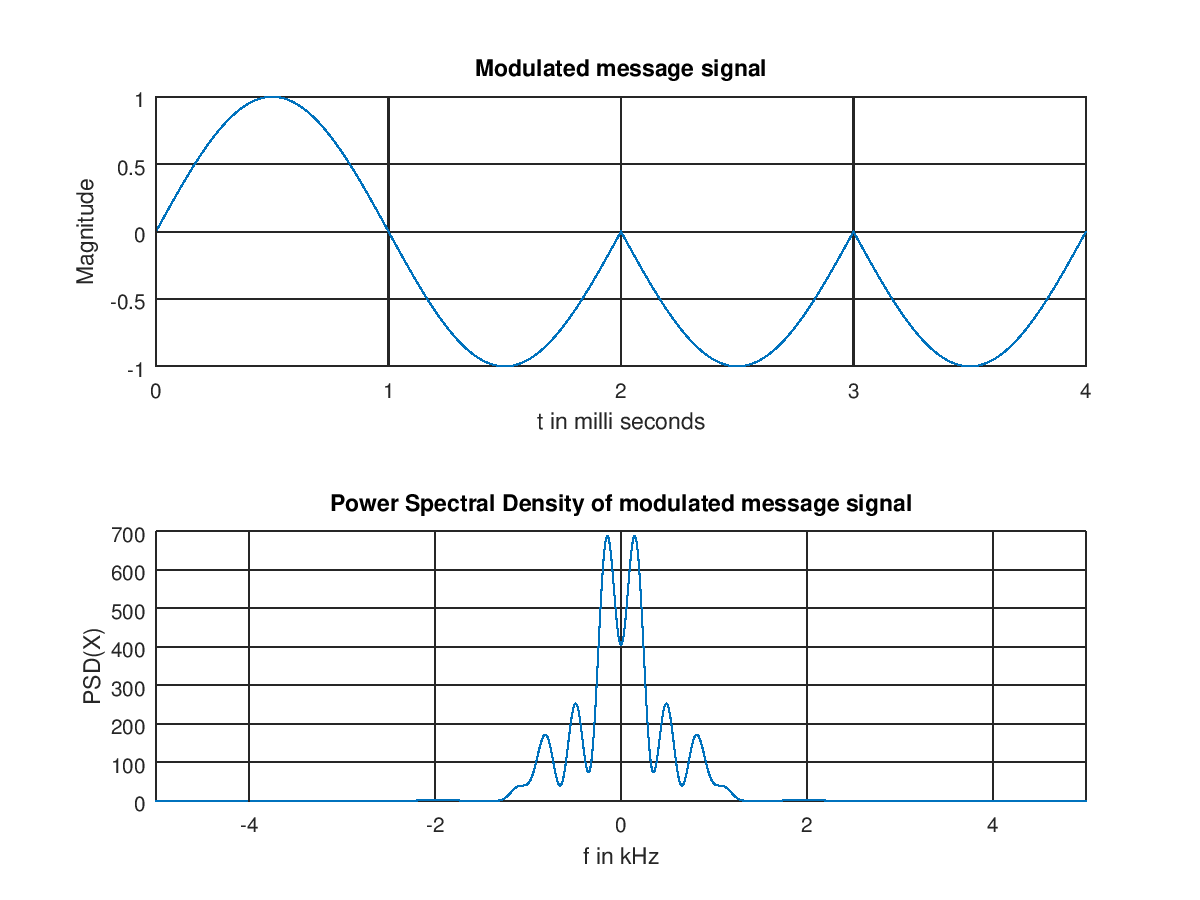
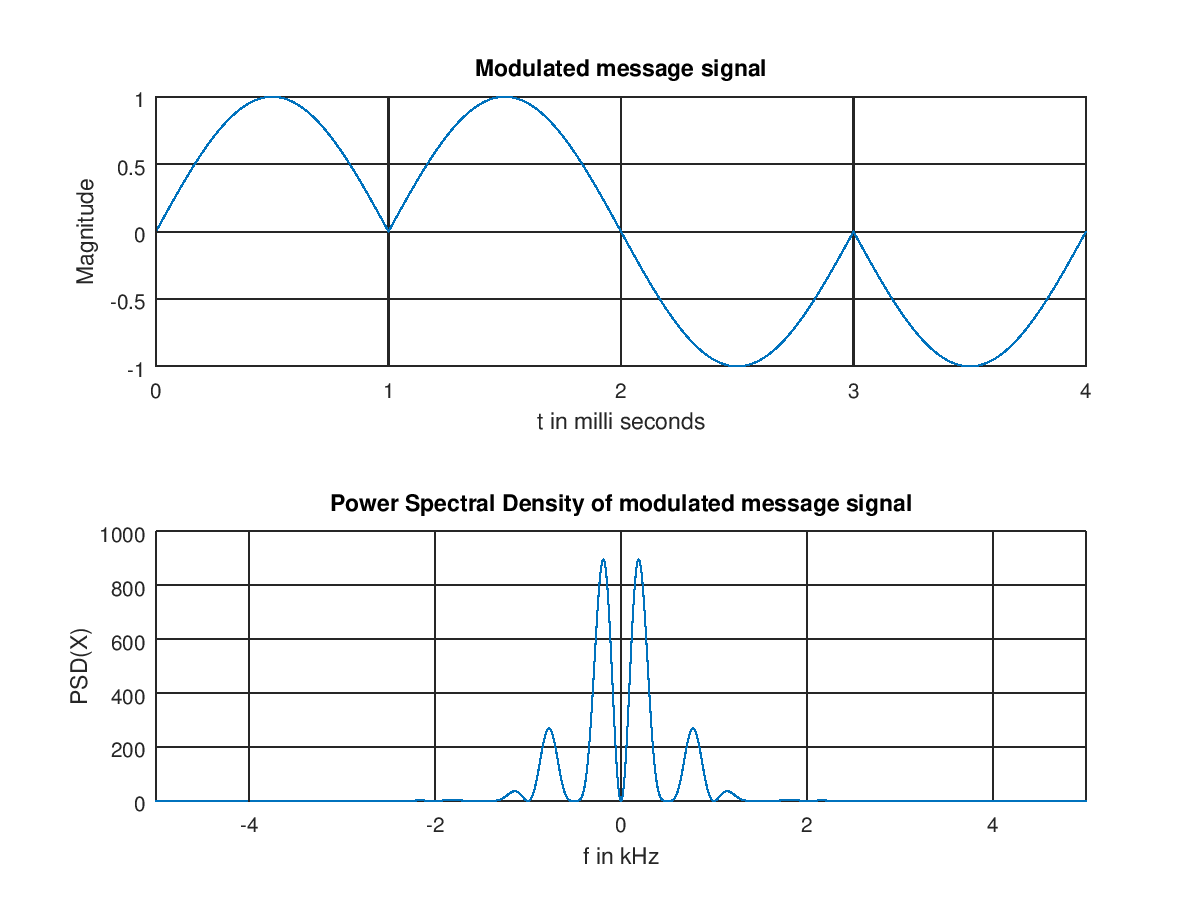
before awesomeness

Changed region(s): [[0.0617, 0.6222, 0.8942, 0.9022], [0.4317, 0.3733, 0.4625, 0.4044]]

diff --git a/LAB 4/Second Attempt/PSD.m b/LAB 4/Second Attempt/PSD.m
@@ -1,10 +1,10 @@
 %% PSD: Returns the Power Spectral Density of a signal
-function [freq_psd, psd, time_message, message] = PSD(symbols, m = 100, t_plot = false)
+function [freq_psd, psd, time_message, message] = PSD(symbols, m = 100, t_plot = false, dt = 1/1000)
 	% code fragment 2.3.2 - page 45
 	s = 1; % Symbol time - in milli seconds
 
 	% Reference Signal
-	time_p = 0:1/m:s;
+	time_p = 0:s/m:s;
 	p = sin(pi*time_p);
 
 	% "time_p & p"
@@ -29,7 +29,7 @@ function [freq_psd, psd, time_message, message] = PSD(symbols, m = 100, t_plot =
 	symbols_upsampled(1:m*s:nsymbols_upsampled) = symbols; % Inserting symbols with spacing m
 
 	u = conv(symbols_upsampled, p)';
-	time_u = 0:1/m:(length(u) - 1)/m;
+	time_u = 0:s/m:(length(u) - 1)*s/m;
 
 	% "time_u & u"
 	% size(time_u)
@@ -49,13 +49,9 @@ function [freq_psd, psd, time_message, message] = PSD(symbols, m = 100, t_plot =
 
 	% Calculating PSD
 
-	[U, freq_U, df_acquired] = contFT(u, time_u(1), 1/m, 1);
+	[U, freq_U, df_acquired] = contFT(u, time_u(1), 1/m, dt);
 
-	% Extracting one column from U
-	% U is a matrix with the same column repeated
-	% U = U(:, 1)';
-
-	psd = abs(U).^2.*(m/nsymbols);
+	psd = abs(U).^2.*(1/(nsymbols*dt));
 	freq_psd = freq_U;
 
 	% "freq_psd, psd"

diff --git a/LAB 4/kr/lab4_4_1.m b/LAB 4/kr/lab4_4_1.m
@@ -1,4 +1,4 @@
-+T=1;
+T=1;
 m=40; %sampling rate as multiple of symbol rate
 %discrete time representation of sine pulse
 time_p = 0:T/m:T; %sampling times over duration of pulse
@@ -36,6 +36,7 @@ for i=1:1:no_avg
   end
   end
 X_avg=X_avg/no_avg;
+print -dpng all_dspsd.png
 %time_u = 0:T/m:((length(u)-1)*T)/m; %unit of time = symbol time T
 %plot(time_u,u);
 %plot(time_p,p);
@@ -47,3 +48,5 @@ ylabel ("PSD(X_average)");
 grid();
 title("Average of power spectral densities of DSB over multiple inputs");
 %plot(freqHz,abs(X));
+
+print -dpng mean_dspsd.png

diff --git a/LAB 4/Second Attempt/4.m b/LAB 4/Second Attempt/4.m
@@ -1,3 +1,22 @@
-[time, dsb] = DSB(randomArray(4), 16, 10);
+m = 16;
+t = 1;
+dt = 1/1000;
+fc = 10/t;
 
-[freq, psd] = PSD()
+[time, dsb] = DSB(randomArray(4), m, fc);
+
+[U, freq_U, df_acquired] = contFT(dsb, time(1), 1/m, dt);
+
+% Extracting one column from U
+% U is a matrix with the same column repeated
+% U = U(:, 1)';
+psd = abs(U).^2.*(1/(4*dt));
+freq_psd = freq_U;
+
+
+plot(freq_psd, psd);
+title("Power Spectral Density");
+xlabel("Frequency (kHz)");
+ylabel("Magnitude");
+% xlim([-2, 2]);
+print -dpng dsb_psd.png;

diff --git a/LAB 4/Second Attempt/DSB.m b/LAB 4/Second Attempt/DSB.m
@@ -3,7 +3,6 @@ function [time, dsb, time_m, message] = DSB(symbols, m = 100, fc = 10, t_plot = 
 	[_, _, time_m, message] = PSD(symbols, m, t_plot);
 	dsb = message.*cos(2*pi*fc*time_m);
 	time = time_m;
-	t_plot = true
 	if t_plot
 		subplot(3, 1, 3);
 		plot(time, dsb);

diff --git a/LAB 4/kr/lab4_4.m b/LAB 4/kr/lab4_4.m
@@ -37,3 +37,5 @@ xlabel ("f in kHz");
 ylabel ("PSD(X)"); 
 grid();
 title ("Power Spectral Density of DSB signal");
+
+print -dpng dsb_psd.png

diff --git a/LAB 4/Second Attempt/1.m b/LAB 4/Second Attempt/1.m
@@ -1,1 +1,1 @@
-PSD(randomArray(4), 1000, true);
+PSD(randomArray(4), 100, true);
